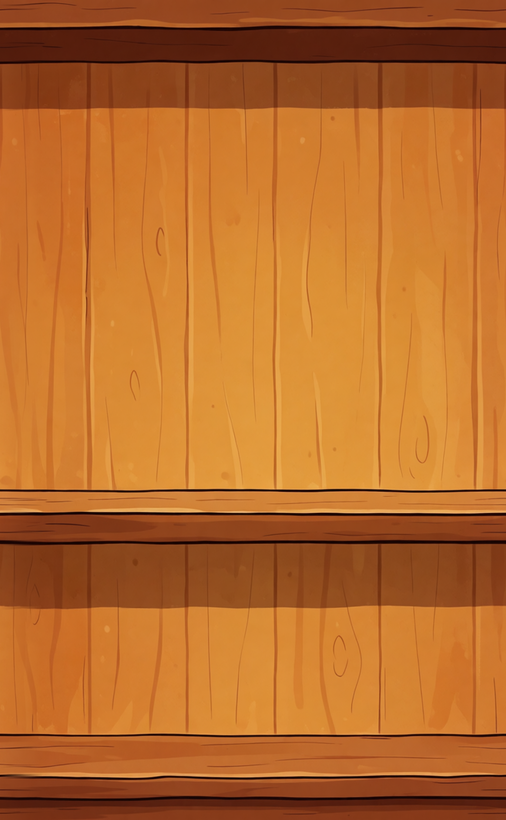
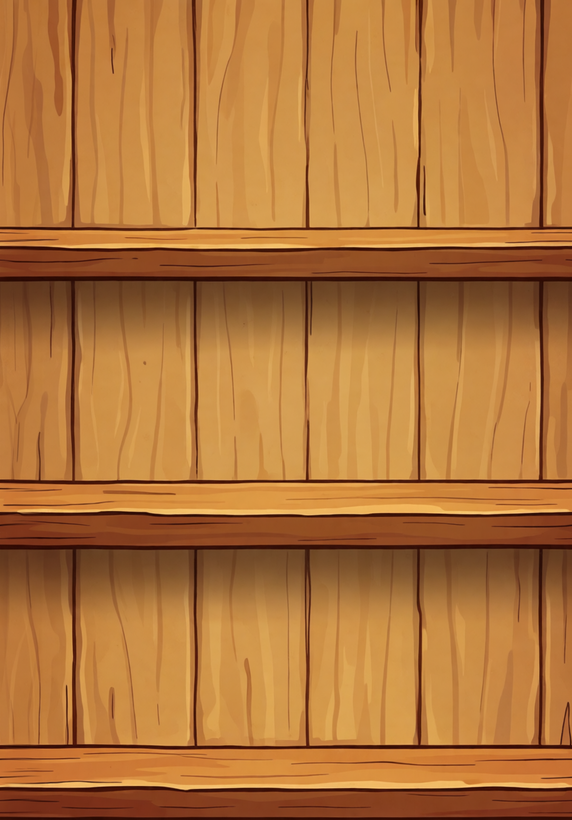
Vitrina con tres baldas y ficha abajo; la pecera pierde el lazo rojo
- TRES baldas (fondo v3 de Ludo): con dos, la mitad de arriba del mueble era
  puro aire. La tercera fila apoya a 0.925 y no en su fraccion exacta: el
  marco de abajo mordia las etiquetas.
- Etiquetas GRANDES (168x46, cuerpo 15/12): a 140x36 no se leian.
- El contador va grabado en una PLACA DE LATON sobre el propio mueble
  ("Tesoros: N/M"), y la pecera lleva la suya ("Peces: N/M" en la barra de
  arriba del tanque) en vez del lazo rojo.
- Tocar una pieza ya no abre ventana: rellena la FICHA DE ABAJO, en el vacio
  bajo el mueble — dibujo, nombre, historia y el "Conseguido el ... En ...".
  La vitrina se queda a la vista mientras se lee.
- La bandera pirata del barco 3D baja de talla (pano 0.21x0.12 por s, antes
  0.30x0.17): competia con las velas.

diff --git a/tools/ui2_prep.py b/tools/ui2_prep.py
@@ -1087,8 +1087,10 @@ def build_vitrina() -> None:
     # tileado fabricado), y ademas se RECORTAN los marcos laterales que el
     # generador pinto aunque el prompt los prohibiera: con ellos, cada
     # baldosa traeria su propio marco en mitad de la vitrina.
-    fondo = Image.open(RAW / "vitrina" / "fondo_v2b.webp").convert("RGB")
-    fondo = fondo.crop((70, 0, fondo.width - 70, fondo.height))
+    # v3: TRES baldas (la de dos dejaba media vitrina de aire por arriba,
+    # dicho por el usuario) y sin marcos laterales pintados, asi que ya no
+    # hay que recortar nada antes de tilear.
+    fondo = Image.open(RAW / "vitrina" / "fondo_v3a.webp").convert("RGB")
     fondo = tile_horizontal(fondo, 90)
     fondo.thumbnail((10000, 820), Image.LANCZOS)
     fondo.save(OUT / "vitrina_fondo.png")
